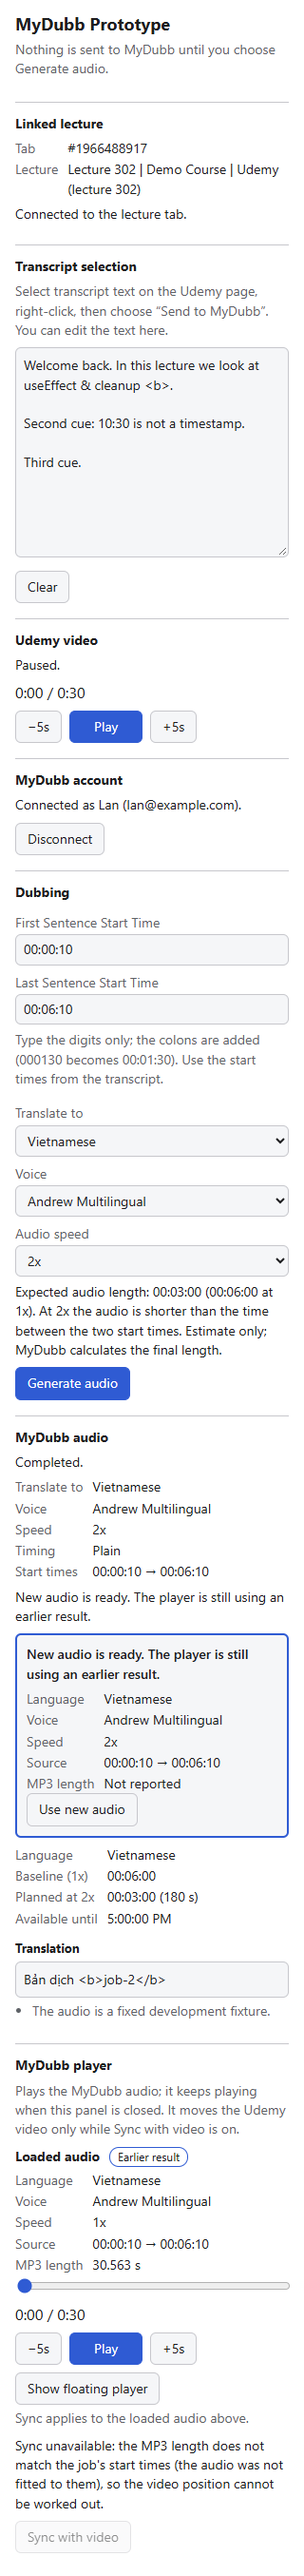
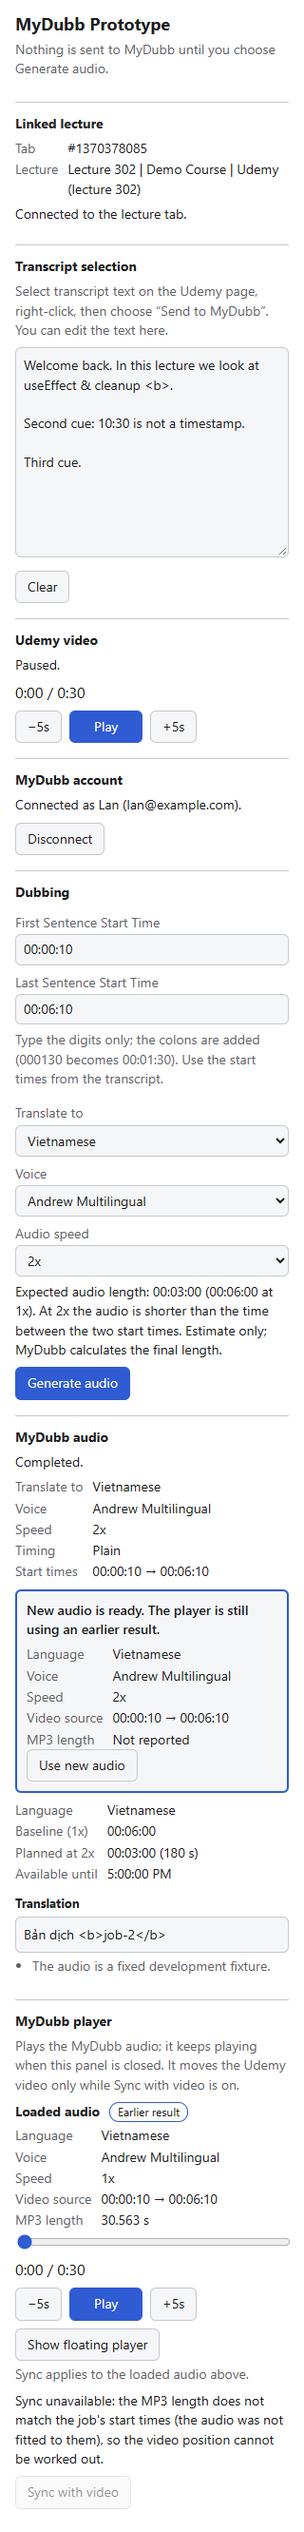
Extension: label the video source from the job's Sync snapshot, not the start-time fields

diff --git a/extension/src/panel/dubbing.test.ts b/extension/src/panel/dubbing.test.ts
@@ -302,7 +302,7 @@ describe("job and result", () => {
     });
     // The form changing later does not change what the player says the file was made with.
     choose("speed", "2");
-    expect($("player-info").textContent).toBe("LanguageArabicVoiceAndrew MultilingualSpeed1xSourceNot recorded for this audioMP3 length180.000 s");
+    expect($("player-info").textContent).toBe("LanguageArabicVoiceAndrew MultilingualSpeed1xVideo sourceNot recorded for this audioMP3 length180.000 s");
     expect(player.commands).toEqual([]);
     expect($("audio-status").textContent).toBe("Ready. Press play when you want to listen.");
     // The page is asked to link itself to the session (for the lecture watch and floating player).
@@ -391,13 +391,13 @@ describe("job and result", () => {
       const callout = $("result-switch");
       expect(callout.hidden).toBe(false);
       expect(callout.textContent).toContain("New audio is ready. The player is still using an earlier result.");
-      expect(text("result-switch-info")).toBe("LanguageVietnameseVoiceAndrew MultilingualSpeed1.5xSource00:00:00 → 00:00:23MP3 length15.333 s");
+      expect(text("result-switch-info")).toBe("LanguageVietnameseVoiceAndrew MultilingualSpeed1.5xVideo source00:00:00 → 00:00:23MP3 length15.333 s");
       // The button is inside the callout, which is inside the new result.
       expect(callout.contains($("player-switch"))).toBe(true);
       expect($("result").contains(callout)).toBe(true);
       expect($("player-switch").textContent).toBe("Use new audio");
       // The loaded audio keeps its own snapshot: other speed, span and length.
-      expect(text("player-info")).toBe("LanguageVietnameseVoiceAndrew MultilingualSpeed1xSource00:00:00 → 00:00:10MP3 length10.000 s");
+      expect(text("player-info")).toBe("LanguageVietnameseVoiceAndrew MultilingualSpeed1xVideo source00:00:00 → 00:00:10MP3 length10.000 s");
       expect($("player-badge").hidden).toBe(false);
       expect($("result-using").hidden).toBe(true);
     });
@@ -468,6 +468,41 @@ describe("job and result", () => {
       expect($("result-using").hidden).toBe(false);
     });
 
+    it("a timed job with overridden start times shows the captions' span (milliseconds kept), not the override", async () => {
+      transcript = "0:05.480\nFirst caption.\n0:34.250\nSecond caption.";
+      const api = twoJobs();
+      await started(undefined, api);
+      typeTime("first-start", "000010");
+      typeTime("last-start", "000056");
+      $<HTMLButtonElement>("generate").click();
+      await settle(12);
+      expect(player.opened[0]?.request.choices.sourceRange).toBe("00:00:05.480 → 00:00:34.250");
+      expect(text("player-info")).toContain("Video source00:00:05.480 → 00:00:34.250");
+      expect(text("player-info")).not.toContain("00:00:56");
+      // The form changing later changes nothing about the loaded audio or the next result's label.
+      typeTime("first-start", "000100");
+      typeTime("last-start", "000200");
+      $<HTMLButtonElement>("generate").click();
+      await settle(12);
+      expect(text("result-switch-info")).toContain("Video source00:00:05.480 → 00:00:34.250");
+      expect(text("result-switch-info")).not.toContain("00:01:00");
+      expect(text("player-info")).toContain("Video source00:00:05.480 → 00:00:34.250");
+    });
+
+    it("a job without a Sync snapshot does not borrow its start-time fields for the source", async () => {
+      transcript = "0:05.480\nFirst caption.\n0:34.250\nSecond caption.";
+      await started();
+      typeTime("first-start", "000010");
+      typeTime("last-start", "000056");
+      $<HTMLButtonElement>("ignore-timestamps").click();
+      typeTime("first-start", "000010");
+      typeTime("last-start", "000056");
+      $<HTMLButtonElement>("generate").click();
+      await settle(12);
+      // Plain here (timestamps ignored): the two fields are the source.
+      expect(player.opened[0]?.request.choices.sourceRange).toBe("00:00:10 → 00:00:56");
+    });
+
     it("an audio without a recorded span says so instead of borrowing the form's", async () => {
       await started();
       typeTime("first-start", "000500");
@@ -487,7 +522,7 @@ describe("job and result", () => {
         owner: { userId: "u1", connectionId: "conn-a", jobId: "job-9", operationId: "op-9" },
         linked: true,
       });
-      expect(text("player-info")).toBe("LanguageHindiVoiceOld voiceSpeed0.75xSourceNot recorded for this audioMP3 length12.000 s");
+      expect(text("player-info")).toBe("LanguageHindiVoiceOld voiceSpeed0.75xVideo sourceNot recorded for this audioMP3 length12.000 s");
     });
   });
 

diff --git a/extension/src/panel/dubbing.ts b/extension/src/panel/dubbing.ts
@@ -1025,7 +1025,7 @@ export class Dubbing {
             languageLabel: choices.languageLabel,
             voiceLabel: choices.voiceLabel,
             speed: choices.speed,
-            sourceRange: sourceRangeOf(choices.firstStart, choices.lastStart),
+            sourceRange: sourceRangeOf(choices.sync),
           },
           sync,
         },
@@ -1185,7 +1185,7 @@ export class Dubbing {
       addPair(ui.playerInfo, "Language", view.choices.languageLabel);
       addPair(ui.playerInfo, "Voice", view.choices.voiceLabel);
       addPair(ui.playerInfo, "Speed", speedLabel(view.choices.speed));
-      addPair(ui.playerInfo, "Source", view.choices.sourceRange ?? "Not recorded for this audio");
+      addPair(ui.playerInfo, "Video source", view.choices.sourceRange ?? "Not recorded for this audio");
       addPair(ui.playerInfo, "MP3 length", view.duration === null ? "Loading…" : `${view.duration.toFixed(3)} s`);
       ui.playerPlay.textContent = playing ? "Pause" : "Play";
       ui.playerPlay.setAttribute("aria-label", playing ? "Pause MyDubb audio" : "Play MyDubb audio");
@@ -1224,7 +1224,7 @@ export class Dubbing {
       addPair(ui.resultSwitchInfo, "Language", c.languageLabel);
       addPair(ui.resultSwitchInfo, "Voice", c.voiceLabel);
       addPair(ui.resultSwitchInfo, "Speed", speedLabel(c.speed));
-      addPair(ui.resultSwitchInfo, "Source", sourceRangeOf(c.firstStart, c.lastStart) ?? "Not recorded for this audio");
+      addPair(ui.resultSwitchInfo, "Video source", sourceRangeOf(c.sync) ?? "Not recorded for this audio");
       addPair(ui.resultSwitchInfo, "MP3 length", result.mp3Seconds === null ? "Not reported" : `${result.mp3Seconds.toFixed(3)} s`);
     }
     ui.playerLoad.hidden = !result || busy || (!!view && (other || view.status !== "error"));

diff --git a/extension/src/shared/playback.ts b/extension/src/shared/playback.ts
@@ -467,7 +467,19 @@ export function choicesLabel(choices: PlaybackChoices): string {
   return choices.sourceRange ? `${label} · ${choices.sourceRange}` : label;
 }
 
-/** The source span as the Generate click fixed it (copied from the job record, never the form later). */
-export function sourceRangeOf(firstStart: string, lastStart: string): string | undefined {
-  return firstStart && lastStart ? `${firstStart} → ${lastStart}` : undefined;
+/**
+ * The video source span of a job, "00:00:05.480 → 00:00:34": taken from the job's Sync snapshot
+ * (plain: its two start-time fields; timed: the transcript's first and last caption, milliseconds
+ * kept), never from the form and never from the start-time fields of a timed job, which only say
+ * what baseline was requested. Undefined when the job has no snapshot.
+ */
+export function sourceRangeOf(source: { start: number; end: number } | undefined): string | undefined {
+  return source ? `${clockWithMs(source.start)} → ${clockWithMs(source.end)}` : undefined;
+}
+
+function clockWithMs(seconds: number): string {
+  const ms = Math.round(seconds * 1000);
+  const pad = (n: number, width = 2) => String(n).padStart(width, "0");
+  const clock = `${pad(Math.floor(ms / 3_600_000))}:${pad(Math.floor(ms / 60_000) % 60)}:${pad(Math.floor(ms / 1000) % 60)}`;
+  return ms % 1000 === 0 ? clock : `${clock}.${pad(ms % 1000, 3)}`;
 }

diff --git a/extension/src/shared/playback.test.ts b/extension/src/shared/playback.test.ts
@@ -2,6 +2,7 @@ import { describe, expect, it } from "vitest";
 
 import {
   choicesLabel,
+  sourceRangeOf,
   clampPosition,
   isAudioTransfer,
   isPageToPlayer,
@@ -71,6 +72,12 @@ describe("helpers", () => {
   it("labels the file's choices", () => {
     expect(choicesLabel(CHOICES)).toBe("Vietnamese · Andrew · 1.5x");
     expect(choicesLabel({ ...CHOICES, sourceRange: "00:00:00 → 00:00:23" })).toBe("Vietnamese · Andrew · 1.5x · 00:00:00 → 00:00:23");
+  });
+
+  it("the video source label comes from the Sync snapshot, with milliseconds, and is absent without one", () => {
+    expect(sourceRangeOf({ start: 5.48, end: 34 })).toBe("00:00:05.480 → 00:00:34");
+    expect(sourceRangeOf({ start: 0, end: 3725 })).toBe("00:00:00 → 01:02:05");
+    expect(sourceRangeOf(undefined)).toBeUndefined();
   });
 
   it("the source span is optional in a session's choices (older audio) but bounded text when present", () => {

diff --git a/docs/context.md b/docs/context.md
@@ -83,7 +83,7 @@ Vận hành cần giữ:
 - Story 2: **Connect MyDubb** (chỉ tài khoản invitation, không guest) → form trong panel → **Generate audio** → theo dõi job → bản dịch + player MP3 trong panel. Language/voice/default lấy từ `GET /api/meta`; speed, timestamp input, timed/plain, điền First/Last từ caption, preview length và **body request** dùng chung module web (`frontend/src/lib/*`, gồm `jobRequest.ts` trích từ DubbingForm), không copy. Chỉ gửi transcript + lựa chọn (không URL/tiêu đề/lecture id Udemy). Chi tiết: [extension/README.md](../extension/README.md).
 - Giữ cho story sau: quyền chỉ `contextMenus`, `sidePanel`, `storage`, `identity`, `offscreen` (story 3) + host đúng một origin MyDubb của build (`MYDUBB_ORIGIN`, mặc định `https://mydubb.com`) + content script `https://www.udemy.com/*` top frame (không `<all_urls>`/`tabs`/cookies/history/`scripting`); `npm run check:dist` khoá danh sách này và cấm hook test. Draft, form, job record và token chỉ ở `chrome.storage.session` (TRUSTED_CONTEXTS), không bao giờ tới content script/DOM Udemy; xoá khi đóng tab. Content script im lặng tới khi panel kết nối. Nhiều video → không lấy cái đầu tiên. Lệnh mang lecture key + video id (`stale` nếu khác). Draft/job/form gắn lecture key và được so với **mọi** page state; đổi bài → xoá draft, dừng audio, ẩn kết quả (job backend vẫn chạy); reload/mở lại cùng bài → giữ. Service worker không giữ state, không tham gia gọi MyDubb (panel tự poll).
 - Job: một POST mỗi click (khoá nút tới khi có trả lời), input chụp lại lúc click; timeout 60 s/mất response → **không retry**, báo "không biết job đã tạo chưa" (record `sending` ghi trước khi gửi, mở lại panel vẫn báo). Poll 1 s ×1.5 tới 10 s, giới hạn 30 phút, 5 lỗi liên tiếp, dừng khi completed/failed/401/đổi bài/đổi tài khoản/đóng panel; mở lại panel cùng tài khoản + bài → theo dõi tiếp. Mọi response so với connection + lecture + operation id, kiểm tra lại sau mỗi await storage; ghi/xoá job record chạy tuần tự và chỉ cho đúng operation (callback cũ không abort polling hay ghi đè record mới). Mở panel: đọc form/account/job đã lưu trước, giữ lại selection/page state đến trong lúc đọc rồi áp dụng sau, nên snapshot cũ không ghi đè timestamp mới (override thủ công cùng draft/bài vẫn giữ). Deadline/cancellation bao cả lúc đọc body (JSON 30 s, POST 60 s, MP3 120 s); phân biệt timeout, huỷ và response không đọc được; tải MP3 lỗi có Check again. MP3 tải bằng bearer thành Blob, `playbackRate` 1, không autoplay (phát ở đâu: story 3). Đổi/ngắt tài khoản → mọi panel xoá kết quả; draft (selection Udemy) giữ.
-- Story 3 (floating player): **offscreen document** (`offscreen.html`, reasons `AUDIO_PLAYBACK` + `BLOBS` — chỉ `AUDIO_PLAYBACK` thì Chrome đóng sau 30 s im lặng) sở hữu audio: tối đa **một session/tab** (một `<audio>` + object URL) gắn tab, lecture, connection, job, operation. Panel và floating player trên trang Udemy chỉ là remote control của cùng session → không có audio thứ hai, handoff giữ vị trí/Play-Pause, đóng panel audio vẫn phát. Panel tải MP3 (vẫn `api.getAudio` với deadline/cancel) rồi đưa Blob qua `BroadcastChannel` của extension origin, chỉ cho transfer mà offscreen đã yêu cầu qua port; offscreen **không bao giờ thấy token**; không base64/data URL, không qua chrome messaging/storage. Content script chỉ nhận display state (thời gian, Play/Pause, nhãn language/voice/speed của file) và gửi lệnh có session id + lecture key; sender kiểm tra (panel port gắn `?tabId` của chính nó, page port do Chrome đặt `sender.tab`, top frame, origin Udemy; message worker không có tab). Session chỉ được Play sau khi content script của tab đã link (panel yêu cầu qua tab port); khi link, content script tiếp tục theo dõi lecture cả khi panel đóng. Kết thúc session (dừng, revoke URL, gỡ listener): đổi/rời bài, page port mất (reload/điều hướng/đóng tab), worker báo tab đóng, connection kết thúc (worker chuyển `storage.onChanged` → cả tab có panel đóng; connection đã kết thúc không mở lại được), kết quả mới được chọn. Generate mới **không thay** audio đang nghe: callout cạnh kết quả mới (language/voice/speed/khoảng nguồn/độ dài MP3 thật + **Use new audio**, dừng cũ trước khi tải mới, không tạo job); player ghi **Loaded audio** theo snapshot của chính session (`choices.sourceRange` + duration thật, thiếu thì "Not recorded"), badge **Earlier result** khi khác kết quả mới, Sync áp cho audio đang tải. Play tab B → pause tab A (giữ vị trí). Close floating = pause + ẩn (session, job, draft giữ; panel mở lại được); thu gọn chỉ UI. Reload không tự phát lại; panel có **Load audio** (tải lại, không tạo job). Hết session thì offscreen tự đóng. Floating UI: Shadow DOM closed, `textContent`, chỉ nhận trusted event, kéo bằng handle (và phím mũi tên), giữ trong viewport khi resize/zoom; không `window.postMessage`.
+- Story 3 (floating player): **offscreen document** (`offscreen.html`, reasons `AUDIO_PLAYBACK` + `BLOBS` — chỉ `AUDIO_PLAYBACK` thì Chrome đóng sau 30 s im lặng) sở hữu audio: tối đa **một session/tab** (một `<audio>` + object URL) gắn tab, lecture, connection, job, operation. Panel và floating player trên trang Udemy chỉ là remote control của cùng session → không có audio thứ hai, handoff giữ vị trí/Play-Pause, đóng panel audio vẫn phát. Panel tải MP3 (vẫn `api.getAudio` với deadline/cancel) rồi đưa Blob qua `BroadcastChannel` của extension origin, chỉ cho transfer mà offscreen đã yêu cầu qua port; offscreen **không bao giờ thấy token**; không base64/data URL, không qua chrome messaging/storage. Content script chỉ nhận display state (thời gian, Play/Pause, nhãn language/voice/speed của file) và gửi lệnh có session id + lecture key; sender kiểm tra (panel port gắn `?tabId` của chính nó, page port do Chrome đặt `sender.tab`, top frame, origin Udemy; message worker không có tab). Session chỉ được Play sau khi content script của tab đã link (panel yêu cầu qua tab port); khi link, content script tiếp tục theo dõi lecture cả khi panel đóng. Kết thúc session (dừng, revoke URL, gỡ listener): đổi/rời bài, page port mất (reload/điều hướng/đóng tab), worker báo tab đóng, connection kết thúc (worker chuyển `storage.onChanged` → cả tab có panel đóng; connection đã kết thúc không mở lại được), kết quả mới được chọn. Generate mới **không thay** audio đang nghe: callout cạnh kết quả mới (language/voice/speed/khoảng nguồn/độ dài MP3 thật + **Use new audio**, dừng cũ trước khi tải mới, không tạo job); player ghi **Loaded audio** theo snapshot của chính session (`choices.sourceRange` = khoảng video nguồn lấy từ snapshot Sync của job — plain: hai ô giờ, timed: caption đầu/cuối giữ ms, không dùng hai ô override — + duration thật; thiếu thì "Not recorded"), badge **Earlier result** khi khác kết quả mới, Sync áp cho audio đang tải. Play tab B → pause tab A (giữ vị trí). Close floating = pause + ẩn (session, job, draft giữ; panel mở lại được); thu gọn chỉ UI. Reload không tự phát lại; panel có **Load audio** (tải lại, không tạo job). Hết session thì offscreen tự đóng. Floating UI: Shadow DOM closed, `textContent`, chỉ nhận trusted event, kéo bằng handle (và phím mũi tên), giữ trong viewport khi resize/zoom; không `window.postMessage`.
 - Đã kiểm chứng **chỉ local/CI**: backend `test_extension_auth.py` (fake Cognito, Postgres disposable), frontend `ExtensionConnect`/`jobRequest` tests, extension Vitest + Playwright nạp extension thật với fixture Udemy tổng hợp và **fake MyDubb** `https://mydubb.test` (hook test thay cửa sổ `launchWebAuthFlow`, chỉ có trong `dist-test/`). Story 3: Playwright phát MP3 thật (30 s) trong offscreen thật, gồm session paused sống qua 36 s; autoplay được cho phép bằng flag trình duyệt nên việc Chrome chặn autoplay chỉ có unit test. Không gọi Cognito/Azure/Supadata, không tạo job production.
 - Product Owner đã thử Story 2 trên Udemy thật + production (Connect, Generate, nghe MP3, đóng/mở panel, chuyển bài, Disconnect: pass). **Chưa kiểm chứng**: Story 3 trên Udemy thật/production (vị trí mặc định top-right có che control Udemy không, autoplay policy thật, offscreen lifetime trên Chrome bản người dùng); `launchWebAuthFlow` thật với mydubb.com (cửa sổ có dùng chung cookie profile hay không — cả hai trường hợp đều xử lý). Product Owner cần: Load unpacked, lấy extension ID, đặt `EXTENSION_IDS=["<id>"]` trên Render (ID unpacked phụ thuộc đường dẫn thư mục; bản Web Store sẽ có ID khác), rồi nghiệm thu theo README "Acceptance".
 - Giới hạn story 3: audio chỉ tiếp tục sau khi đã load vào player (panel đóng trước khi có kết quả thì dừng theo dõi job); token bị thu hồi phía server chỉ bị phát hiện ở request kế tiếp của panel (Disconnect trong extension dừng ngay); mỗi tab giữ một MP3 trong bộ nhớ tới khi session kết thúc.

diff --git a/extension/README.md b/extension/README.md
@@ -66,11 +66,11 @@ folder's path, so it differs per computer/folder, and a Web Store build would ge
    position and Play/Pause. Playing in another Udemy tab pauses this one (each keeps its position).
    A new **Generate audio** does not replace or stop what you are listening to: when its result is
    ready, the result shows a callout next to it ("New audio is ready. The player is still using an
-   earlier result.") with the new audio's language, voice, speed, source span and real MP3 length
+   earlier result.") with the new audio's language, voice, speed, **video source** span and real MP3 length
    and a **Use new audio** button; it stops the old audio and loads the new one (paused, Sync OFF,
    no new job). The player's **Loaded audio** block shows the same facts for the audio it actually
    holds (taken from that audio's own session, never from the form), with an **Earlier result**
-   badge while it differs from the new result; audio without a recorded span says so. Sync
+   badge while it differs from the new result. The video source is the job's Sync snapshot (plain: its two start times; timed: the first/last caption, milliseconds kept), never the form and never the start-time fields of a timed job (those only set the requested baseline); audio without a snapshot says "Not recorded". Sync
    applies to the loaded audio. If the switch fails, nothing claims the new audio is in use and
    **Load audio** retries without a new job.
 8. **Sync with video** (panel and floating player, OFF by default): the first time it shows the
